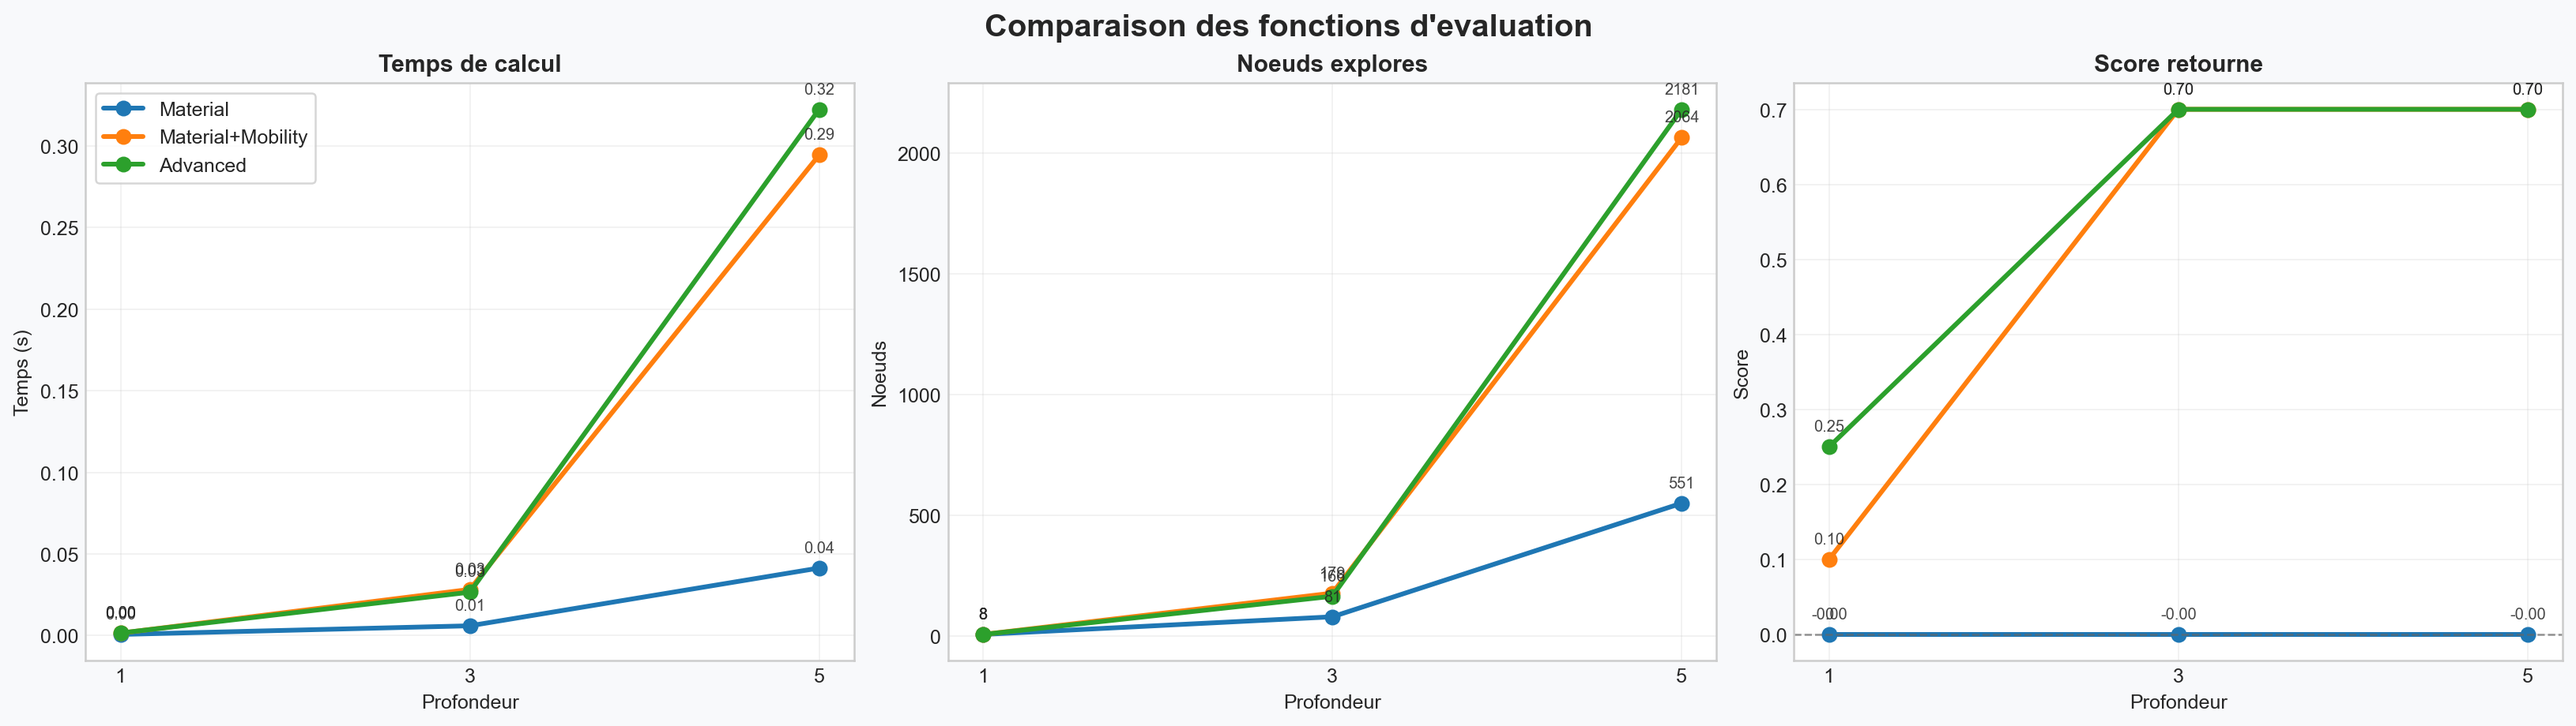
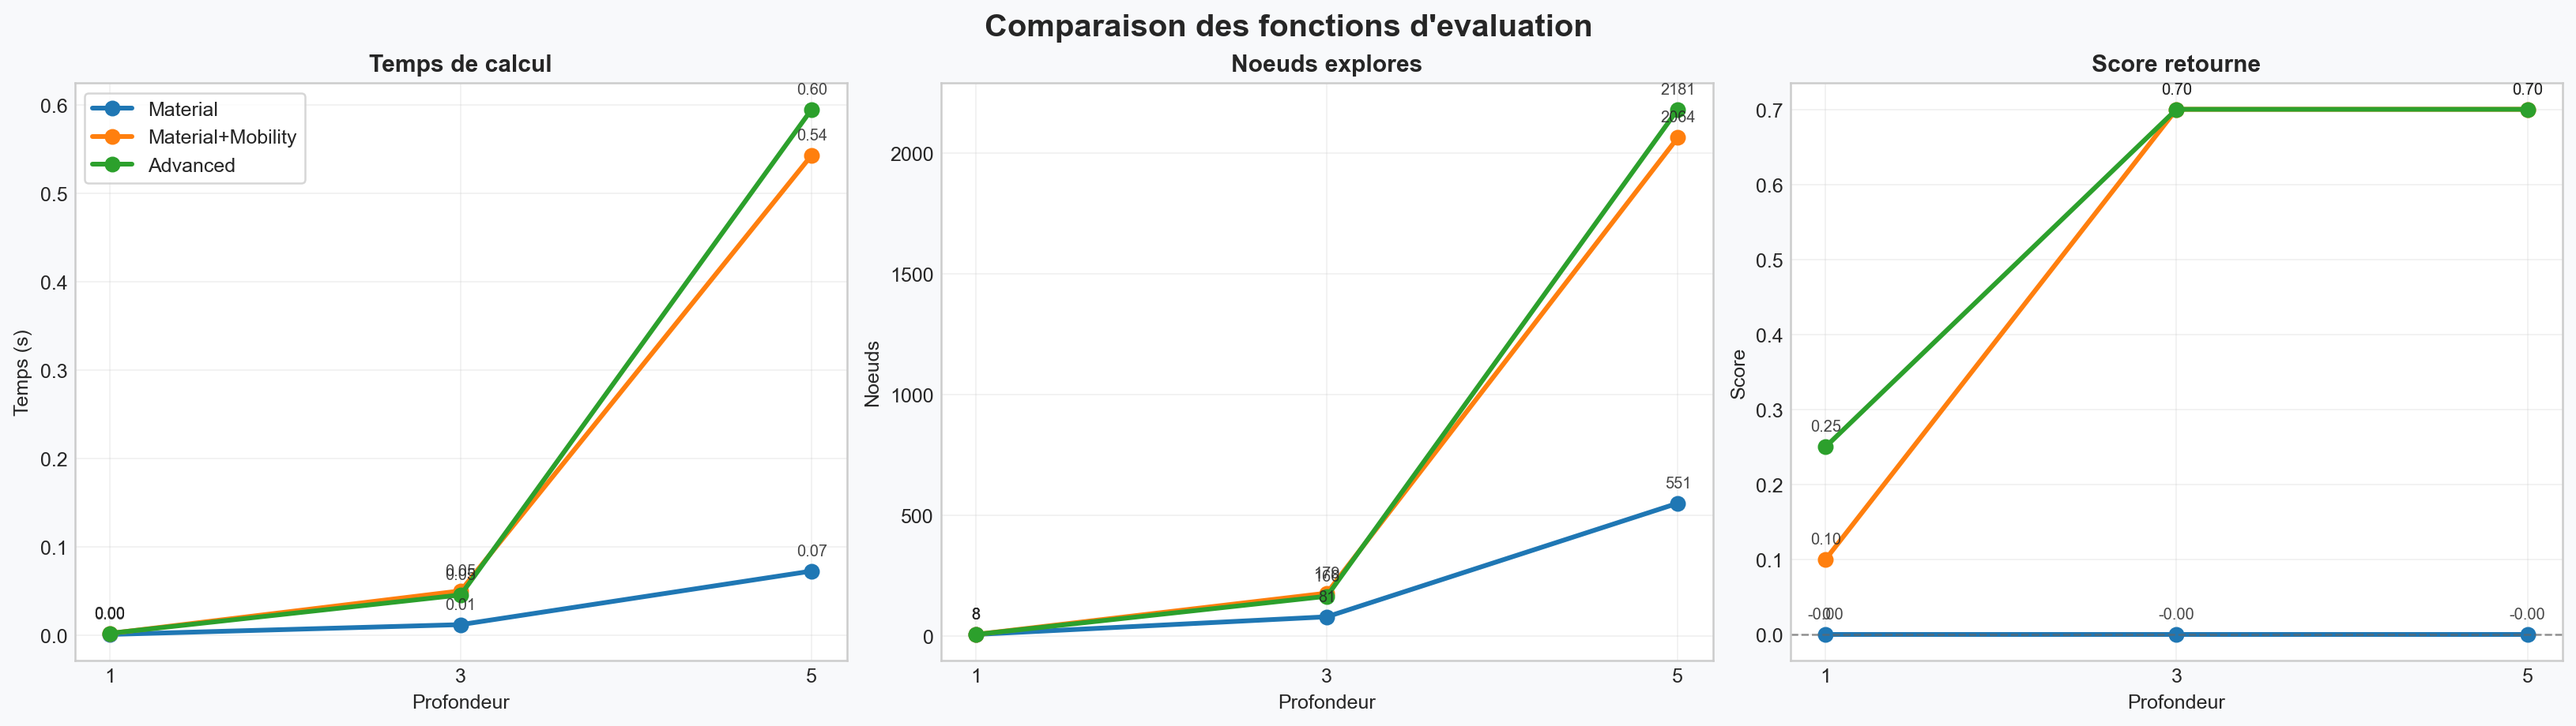
correct perfomance_tests()

diff --git a/run.py b/run.py
@@ -160,7 +160,7 @@ def performance_tests():
     tests = [
         ("Facile (Minimax, profondeur 1)",1,MaterialEvaluator(), False),
         ("Moyen (Alpha-Beta, profondeur 3)",3,MobilityEvaluator(), True),
-        ("Difficile (Alpha-Beta, profondeur 5)",5,MobilityEvaluator(), True),
+        ("Difficile (Alpha-Beta, profondeur 5)",5,AdvancedEvaluator(), True),
     ]
     for name, depth, evaluator, use_ab in tests:
         print(f"\n{name} :")
